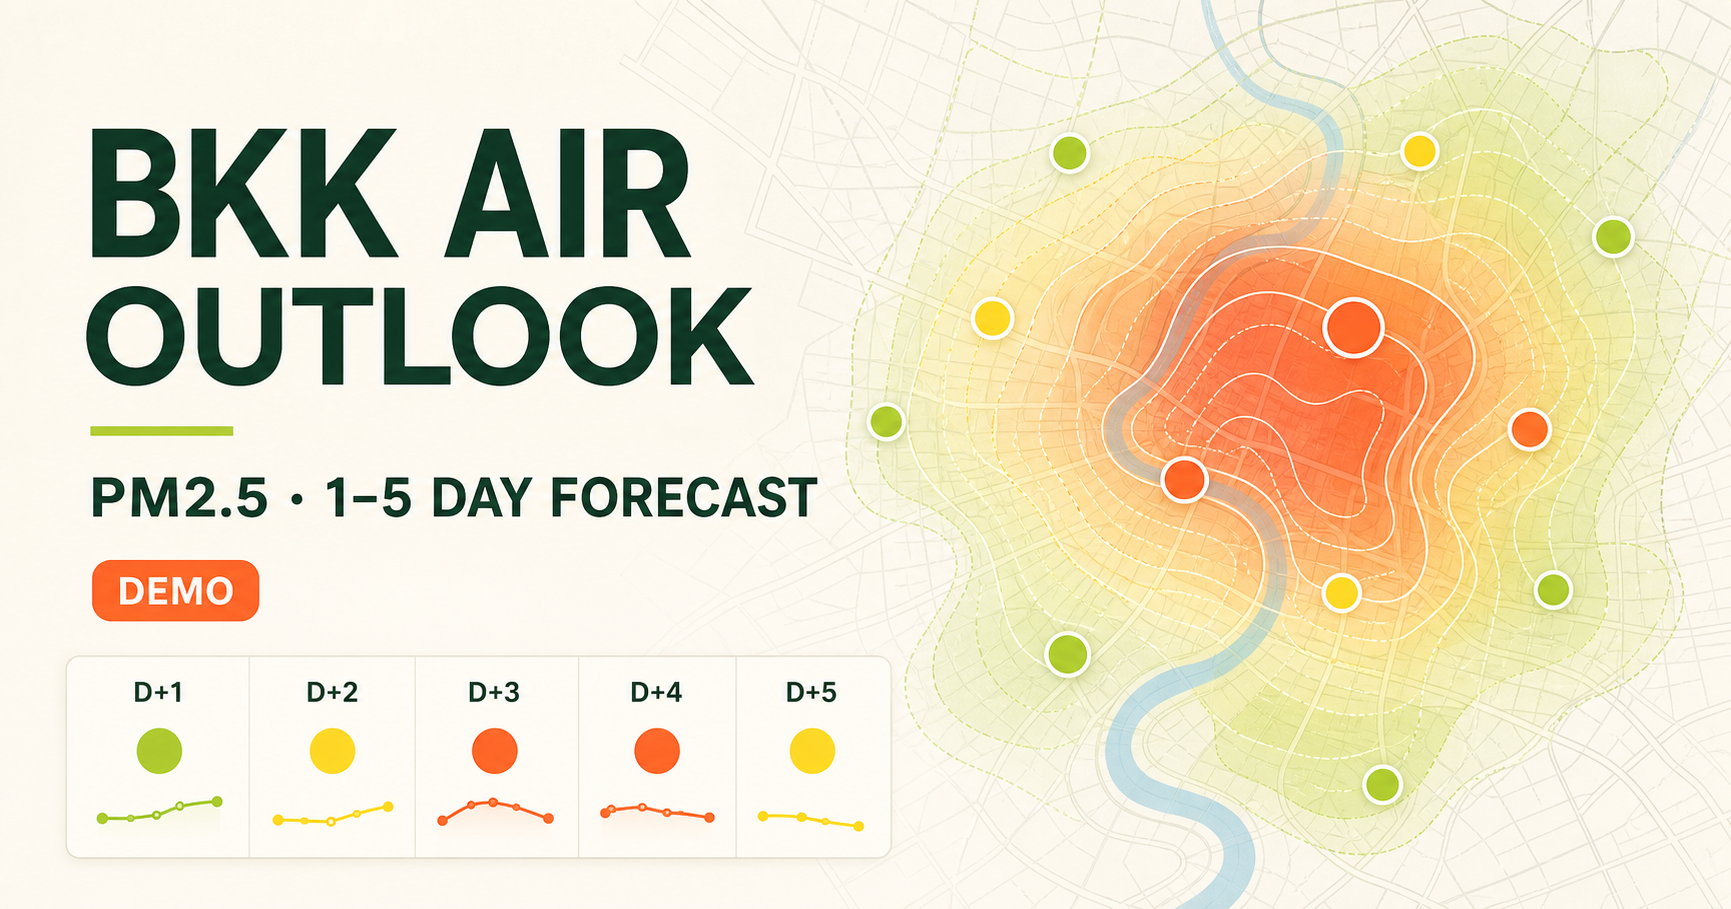
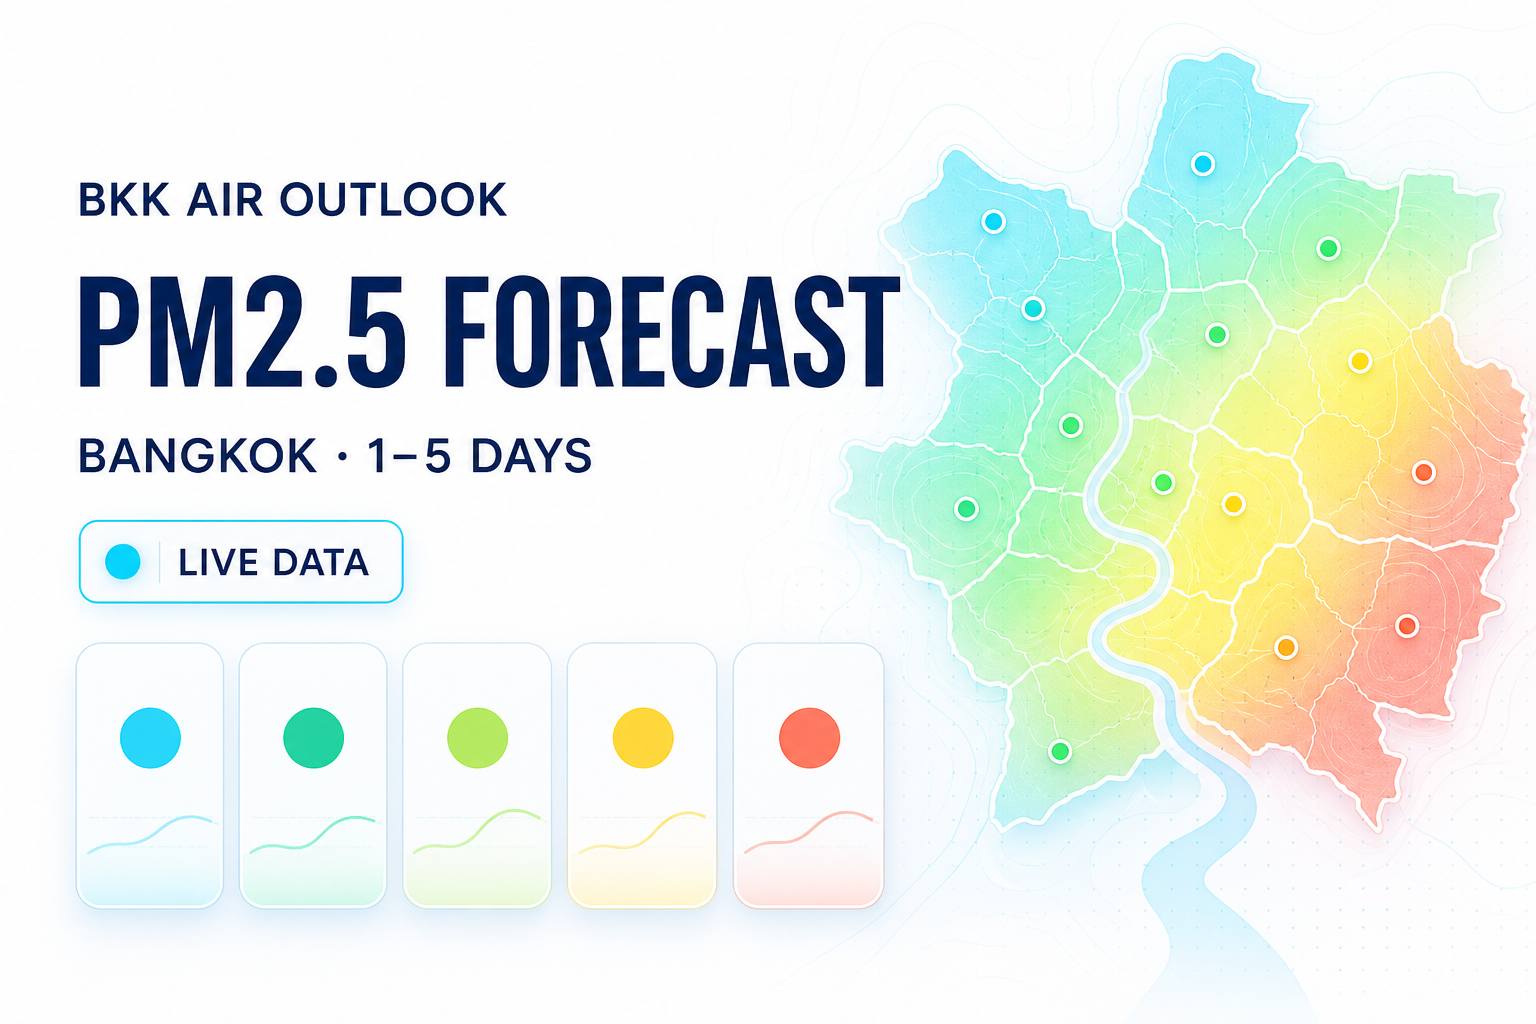
Refresh dashboard with bright modern theme

diff --git a/app/globals.css b/app/globals.css
@@ -2,15 +2,16 @@
 @import "tailwindcss";
 
 :root {
-  --ink: #102a20;
-  --muted: #60736a;
-  --paper: #f2efe6;
-  --card: #fffdf7;
-  --line: #d8ddd4;
-  --lime: #d9f36a;
-  --orange: #ff7352;
-  --forest: #153c2c;
-  --shadow: 0 24px 70px rgba(21, 60, 44, .10);
+  --ink: #102a43;
+  --muted: #627d98;
+  --paper: #f8fbfd;
+  --card: #ffffff;
+  --line: #dce8ee;
+  --lime: #cff45b;
+  --orange: #ff765e;
+  --forest: #106b57;
+  --cyan: #20c7ea;
+  --shadow: 0 20px 60px rgba(16, 42, 67, .08);
 }
 
 * { box-sizing: border-box; }
@@ -18,8 +19,9 @@ html { scroll-behavior: smooth; }
 body {
   margin: 0;
   background:
-    radial-gradient(circle at 85% 8%, rgba(217, 243, 106, .16), transparent 24rem),
-    var(--paper);
+    radial-gradient(circle at 92% 7%, rgba(32, 199, 234, .10), transparent 28rem),
+    radial-gradient(circle at 4% 28%, rgba(207, 244, 91, .10), transparent 24rem),
+    linear-gradient(180deg, #fff 0, var(--paper) 55%, #fff 100%);
   color: var(--ink);
   font-family: "IBM Plex Sans Thai", "Noto Sans Thai", Tahoma, sans-serif;
   font-size: 16px;
@@ -37,7 +39,7 @@ button { color: inherit; }
   align-items: center;
   gap: 24px;
   padding: 0 4.5vw;
-  background: rgba(255, 253, 247, .88);
+  background: rgba(255, 255, 255, .92);
   backdrop-filter: blur(18px);
   border-bottom: 1px solid var(--line);
   position: relative;
@@ -47,25 +49,25 @@ button { color: inherit; }
 .brand > span:last-child { display: flex; flex-direction: column; line-height: .92; letter-spacing: .05em; font-family: Manrope, sans-serif; }
 .brand b { font-size: 17px; letter-spacing: -.02em; }
 .brand small { font-size: 9px; letter-spacing: .32em; color: var(--muted); margin-top: 5px; }
-.brand-mark { width: 38px; height: 38px; border-radius: 12px; background: var(--forest); display: flex; align-items: center; justify-content: center; gap: 3px; box-shadow: inset 0 0 0 1px rgba(255,255,255,.08); transform: rotate(-3deg); }
+.brand-mark { width: 38px; height: 38px; border-radius: 12px; background: linear-gradient(145deg, #0e7490, var(--forest)); display: flex; align-items: center; justify-content: center; gap: 3px; box-shadow: 0 8px 20px rgba(14,116,144,.18); transform: rotate(-3deg); }
 .brand-mark i { display: block; width: 3px; border-radius: 5px; background: var(--lime); }
 .brand-mark i:nth-child(1) { height: 10px; }
 .brand-mark i:nth-child(2) { height: 18px; }
 .brand-mark i:nth-child(3) { height: 13px; }
-.issued { display: flex; align-items: center; gap: 9px; font-size: 12px; color: var(--muted); padding: 9px 14px; border: 1px solid var(--line); border-radius: 999px; background: rgba(255,255,255,.72); }
+.issued { display: flex; align-items: center; gap: 9px; font-size: 12px; color: var(--muted); padding: 9px 14px; border: 1px solid var(--line); border-radius: 999px; background: #fff; box-shadow: 0 5px 18px rgba(16,42,67,.04); }
 .issued b { color: var(--ink); }
 .status-dot { width: 8px; height: 8px; border-radius: 50%; background: #f59e0b; box-shadow: 0 0 0 4px #fef3c7; }
 .status-dot.live { background: #22c55e; box-shadow: 0 0 0 4px #dcfce7; }
 .status-dot.degraded { background: #eab308; box-shadow: 0 0 0 4px #fef9c3; }
 .status-dot.fallback { background: #f97316; box-shadow: 0 0 0 4px #ffedd5; }
-.method-link { justify-self: end; border: 1px solid var(--forest); border-radius: 999px; background: transparent; padding: 10px 15px; font-size: 11px; font-weight: 600; cursor: pointer; transition: background .2s, color .2s, transform .2s; }
+.method-link { justify-self: end; border: 1px solid #c7dce6; border-radius: 999px; background: #fff; padding: 10px 15px; font-size: 11px; font-weight: 600; cursor: pointer; box-shadow: 0 5px 18px rgba(16,42,67,.04); transition: background .2s, color .2s, transform .2s; }
 .method-link:hover { background: var(--forest); color: #fff; transform: translateY(-1px); }
 
 .notice { min-height: 38px; padding: 8px 4.5vw; background: #fff0dc; color: #7c3d12; display: flex; justify-content: center; gap: 12px; align-items: center; font-size: 11px; border-bottom: 1px solid #f3d2aa; }
 .notice b { letter-spacing: .08em; }
 .notice span { color: #8a5a38; }
-.notice.live { background: #e7f8ee; color: #175a35; border-bottom-color: #b9e5ca; }
-.notice.live span { color: #3b7253; }
+.notice.live { background: #effcf8; color: #0f6853; border-bottom-color: #c5efe3; }
+.notice.live span { color: #42796c; }
 .notice.degraded { background: #fff6d8; color: #735912; border-bottom-color: #ead792; }
 .notice.degraded span { color: #806c34; }
 .notice.fallback { background: #ffebe5; color: #852f1c; border-bottom-color: #efc1b5; }
@@ -73,25 +75,25 @@ button { color: inherit; }
 
 .hero { padding: 54px 4.5vw 42px; display: grid; grid-template-columns: minmax(0, 1fr) minmax(340px, 460px); align-items: stretch; gap: clamp(34px, 6vw, 88px); }
 .hero-copy { align-self: center; max-width: 790px; }
-.hero-kicker { display: inline-flex; align-items: center; gap: 8px; margin-bottom: 18px; padding: 6px 9px; border-radius: 999px; background: var(--lime); color: var(--forest); font-family: Manrope, sans-serif; font-size: 9px; font-weight: 800; letter-spacing: .14em; }
-.hero-kicker::before { content: ""; width: 6px; height: 6px; border-radius: 50%; background: var(--forest); box-shadow: 0 0 0 3px rgba(21,60,44,.12); }
+.hero-kicker { display: inline-flex; align-items: center; gap: 8px; margin-bottom: 18px; padding: 6px 9px; border: 1px solid #c6edf5; border-radius: 999px; background: #effbfe; color: #0e7490; font-family: Manrope, sans-serif; font-size: 9px; font-weight: 800; letter-spacing: .14em; }
+.hero-kicker::before { content: ""; width: 6px; height: 6px; border-radius: 50%; background: var(--cyan); box-shadow: 0 0 0 3px rgba(32,199,234,.14); }
 .eyebrow { margin: 0 0 12px; color: #557065; font-size: 12px; letter-spacing: .06em; font-weight: 600; }
 .hero h1 { margin: 0; max-width: 820px; font-size: clamp(45px, 5.4vw, 78px); line-height: .98; letter-spacing: -.055em; font-weight: 700; }
 .hero h1 em { color: var(--orange); font-style: normal; }
 .hero-deck { max-width: 620px; margin: 22px 0 0; color: var(--muted); font-size: 14px; line-height: 1.7; }
-.hero-visual { min-height: 260px; position: relative; overflow: hidden; border: 1px solid rgba(21,60,44,.20); border-radius: 26px 6px 26px 26px; background-image: linear-gradient(180deg, rgba(21,60,44,.03), rgba(21,60,44,.34)), url("/og-design-v2.png"); background-size: cover; background-position: 72% center; box-shadow: var(--shadow); }
-.hero-visual::before { content: ""; position: absolute; width: 92px; height: 92px; right: -28px; top: -28px; border-radius: 50%; border: 22px solid var(--lime); opacity: .78; }
-.hero-summary { position: absolute; left: 16px; right: 16px; bottom: 16px; padding: 16px 18px; border: 1px solid rgba(255,255,255,.22); border-radius: 16px; color: #fff; background: rgba(10,42,30,.84); backdrop-filter: blur(12px); }
-.hero-summary p { margin: 0 0 5px; font-size: 10px; color: #c8d8cf; }
+.hero-visual { min-height: 260px; position: relative; overflow: hidden; border: 1px solid #d7eaf1; border-radius: 26px 8px 26px 26px; background-image: url("/og.png"); background-size: cover; background-position: 72% center; box-shadow: var(--shadow); }
+.hero-visual::before { content: ""; position: absolute; width: 92px; height: 92px; right: -28px; top: -28px; border-radius: 50%; border: 22px solid rgba(32,199,234,.48); }
+.hero-summary { position: absolute; left: 16px; right: 16px; bottom: 16px; padding: 16px 18px; border: 1px solid rgba(190,220,230,.78); border-radius: 16px; color: var(--ink); background: rgba(255,255,255,.90); backdrop-filter: blur(14px); box-shadow: 0 12px 30px rgba(16,42,67,.10); }
+.hero-summary p { margin: 0 0 5px; font-size: 10px; color: var(--muted); }
 .hero-summary strong { display: block; font-family: Manrope, "IBM Plex Sans Thai", sans-serif; font-size: 23px; margin-bottom: 3px; }
 .hero-summary strong small { font-family: "IBM Plex Sans Thai", sans-serif; font-size: 10px; font-weight: 500; }
-.hero-summary span { font-size: 10px; line-height: 1.5; color: var(--lime); }
+.hero-summary span { font-size: 10px; line-height: 1.5; color: var(--forest); }
 
 .day-tabs { margin: 0 4.5vw; display: grid; grid-template-columns: repeat(5, 1fr); background: #fff; border: 1px solid var(--line); border-radius: 20px 20px 0 0; overflow: hidden; box-shadow: 0 12px 36px rgba(21,60,44,.06); }
 .day-tabs button { border: 0; border-right: 1px solid var(--line); background: #fff; padding: 16px 18px 17px; text-align: left; cursor: pointer; position: relative; transition: background .2s, color .2s, transform .2s; }
 .day-tabs button:last-child { border-right: 0; }
 .day-tabs button:hover { background: #f8f9f3; }
-.day-tabs button.active { background: var(--forest); color: #fff; }
+.day-tabs button.active { background: linear-gradient(145deg, #0e7490, var(--forest)); color: #fff; }
 .day-tabs button.active::after { content: ""; position: absolute; inset: auto 16px 0; height: 3px; background: var(--lime); }
 .day-tabs span { display: block; font-size: 10px; opacity: .65; letter-spacing: .12em; }
 .day-tabs b { display: block; margin: 5px 0 9px; font-size: 14px; font-weight: 600; }
@@ -119,11 +121,11 @@ button { color: inherit; }
 .range-toggle input:checked + span { background: var(--forest); }
 .range-toggle input:checked + span::after { transform: translateX(15px); }
 .range-toggle input:focus-visible + span { outline: 3px solid #a7f3d0; outline-offset: 2px; }
-.map-wrap { height: 610px; position: relative; background: #dde3db; overflow: hidden; }
+.map-wrap { height: 610px; position: relative; background: #edf5f7; overflow: hidden; }
 .map { height: 100%; width: 100%; z-index: 1; }
 .map::after { content: ""; position: absolute; inset: 0; pointer-events: none; z-index: 500; box-shadow: inset 0 0 90px #19332918; }
-.leaflet-container { font-family: "IBM Plex Sans Thai", "Noto Sans Thai", Tahoma, sans-serif; background: #dde3db; }
-.leaflet-tile { filter: saturate(.55) contrast(.92) brightness(1.06); }
+.leaflet-container { font-family: "IBM Plex Sans Thai", "Noto Sans Thai", Tahoma, sans-serif; background: #edf5f7; }
+.leaflet-tile { filter: saturate(.48) contrast(.90) brightness(1.11); }
 .leaflet-control-attribution { font-size: 9px !important; }
 .forecast-tooltip { border: 0 !important; border-radius: 7px !important; box-shadow: 0 5px 20px #173c2b24 !important; font-size: 11px; font-weight: 700; }
 .map-popup { min-width: 120px; display: flex; flex-direction: column; gap: 4px; }
@@ -137,10 +139,10 @@ button { color: inherit; }
 .map-metric strong small { font-size: 10px; font-weight: 400; letter-spacing: 0; margin-left: 5px; }
 .map-metric > b { font-size: 11px; }
 .map-metric em { font-size: 9px; font-style: normal; margin-top: 8px; color: var(--muted); border-top: 1px solid var(--line); padding-top: 7px; }
-.surface-status { position: absolute; z-index: 600; top: 18px; right: 18px; min-width: 174px; padding: 12px 14px; border: 1px solid rgba(255,255,255,.12); border-radius: 14px; background: #173c2be8; color: #fff; box-shadow: 0 8px 26px #173c2b24; display: flex; flex-direction: column; backdrop-filter: blur(10px); }
-.surface-status b { font-size: 10px; letter-spacing: .07em; color: var(--lime); }
-.surface-status span { margin-top: 3px; font-size: 9px; color: #dce7e0; }
-.surface-status em { margin-top: 7px; padding-top: 6px; border-top: 1px solid #ffffff24; font-size: 8px; font-style: normal; color: #b7c9bf; }
+.surface-status { position: absolute; z-index: 600; top: 18px; right: 18px; min-width: 174px; padding: 12px 14px; border: 1px solid #d2e6ed; border-radius: 14px; background: rgba(255,255,255,.92); color: var(--ink); box-shadow: 0 8px 26px rgba(16,42,67,.12); display: flex; flex-direction: column; backdrop-filter: blur(12px); }
+.surface-status b { font-size: 10px; letter-spacing: .07em; color: #0e7490; }
+.surface-status span { margin-top: 3px; font-size: 9px; color: var(--muted); }
+.surface-status em { margin-top: 7px; padding-top: 6px; border-top: 1px solid var(--line); font-size: 8px; font-style: normal; color: #829ab1; }
 .surface-status.fallback b { color: #ffd17b; }
 .surface-status.loading { opacity: .78; }
 .legend { position: absolute; z-index: 600; left: 18px; bottom: 20px; display: flex; align-items: center; gap: 12px; padding: 10px 13px; background: #fffefae8; backdrop-filter: blur(10px); border: 1px solid rgba(21,60,44,.08); border-radius: 12px; box-shadow: 0 6px 22px #173c2b16; }
@@ -148,12 +150,12 @@ button { color: inherit; }
 .legend i { width: 8px; height: 8px; border-radius: 50%; }
 .legend small { padding-left: 5px; border-left: 1px solid var(--line); color: var(--muted); font-size: 9px; }
 
-.insights { border-left: 1px solid var(--line); background: #fbfaf5; }
+.insights { border-left: 1px solid var(--line); background: #ffffff; }
 .insights > div { padding: 23px; border-bottom: 1px solid var(--line); }
 .insights > div:last-child { border-bottom: 0; }
-.average-card { display: flex; align-items: center; gap: 17px; background: linear-gradient(135deg, rgba(217,243,106,.18), transparent 65%); }
+.average-card { display: flex; align-items: center; gap: 17px; background: linear-gradient(135deg, rgba(32,199,234,.09), rgba(207,244,91,.10) 72%, transparent); }
 .average-ring { --progress: 180deg; --metric-color: var(--lime); width: 92px; height: 92px; flex: 0 0 auto; border-radius: 50%; display: grid; place-items: center; background: conic-gradient(var(--metric-color) var(--progress), #e1e6e0 0); position: relative; box-shadow: inset 0 0 0 1px rgba(21,60,44,.03); }
-.average-ring::after { content: ""; position: absolute; inset: 8px; background: #fbfaf5; border-radius: 50%; }
+.average-ring::after { content: ""; position: absolute; inset: 8px; background: #fff; border-radius: 50%; }
 .average-ring span { position: relative; z-index: 1; display: flex; flex-direction: column; align-items: center; font-family: Manrope, "IBM Plex Sans Thai", sans-serif; font-size: 27px; line-height: 1; font-weight: 800; letter-spacing: -.05em; }
 .average-ring small { margin-top: 5px; font-family: "IBM Plex Sans Thai", sans-serif; font-size: 8px; font-weight: 500; letter-spacing: 0; color: var(--muted); }
 .average-card p, .weather-card > p, .watch-card > p { margin: 0 0 5px; font-size: 10px; color: var(--muted); letter-spacing: .06em; }
@@ -169,14 +171,14 @@ button { color: inherit; }
 .watch-card li b { font-family: Manrope, "IBM Plex Sans Thai", sans-serif; font-size: 13px; }
 .watch-card li i { width: 7px; height: 7px; border-radius: 50%; }
 .watch-card > small { font-size: 8px; color: #8a9992; }
-.forecast-note { display: flex; gap: 12px; background: #fff8e7; }
+.forecast-note { display: flex; gap: 12px; background: #f5fbfd; }
 .forecast-note > span { width: 24px; height: 24px; flex: 0 0 auto; border-radius: 50%; display: grid; place-items: center; background: #f8cf5c; font-weight: 800; font-size: 12px; }
-.forecast-note p { margin: 0; color: #775825; font-size: 10px; line-height: 1.55; }
-.forecast-note b { display: block; color: #553d16; font-size: 11px; margin-bottom: 3px; }
+.forecast-note p { margin: 0; color: #486581; font-size: 10px; line-height: 1.55; }
+.forecast-note b { display: block; color: var(--ink); font-size: 11px; margin-bottom: 3px; }
 
 .method { margin: 100px 4.5vw 58px; display: grid; grid-template-columns: .7fr 1.3fr; gap: 70px; }
 .method h2 { margin: 0; font-size: clamp(30px, 3.5vw, 52px); line-height: 1.08; letter-spacing: -.04em; }
-.method-flow { display: grid; grid-template-columns: repeat(2, 1fr); border: 1px solid var(--line); border-radius: 20px; overflow: hidden; background: rgba(255,255,255,.52); box-shadow: 0 18px 50px rgba(21,60,44,.05); }
+.method-flow { display: grid; grid-template-columns: repeat(2, 1fr); border: 1px solid var(--line); border-radius: 20px; overflow: hidden; background: #fff; box-shadow: 0 18px 50px rgba(16,42,67,.05); }
 .method-flow article { min-height: 175px; padding: 24px; border-right: 1px solid var(--line); border-bottom: 1px solid var(--line); }
 .method-flow article:nth-child(2n) { border-right: 0; }
 .method-flow article:nth-last-child(-n+2) { border-bottom: 0; }
@@ -187,9 +189,9 @@ button { color: inherit; }
 .source-row span { margin-right: auto; color: var(--muted); font-size: 10px; }
 .source-row b { padding: 8px 12px; border: 1px solid var(--line); border-radius: 30px; background: rgba(255,255,255,.72); font-size: 9px; font-weight: 500; }
 
-footer { min-height: 72px; padding: 0 4.5vw; display: flex; align-items: center; justify-content: space-between; gap: 20px; background: var(--forest); color: #fff; font-size: 10px; }
+footer { min-height: 72px; padding: 0 4.5vw; display: flex; align-items: center; justify-content: space-between; gap: 20px; border-top: 1px solid var(--line); background: #fff; color: var(--ink); font-size: 10px; }
 footer span { font-weight: 700; letter-spacing: .08em; }
-footer p { margin: 0; color: #b8c8bf; text-align: right; }
+footer p { margin: 0; color: var(--muted); text-align: right; }
 
 @media (max-width: 980px) {
   .hero { grid-template-columns: minmax(0, 1fr) 340px; gap: 30px; }

diff --git a/app/layout.tsx b/app/layout.tsx
@@ -21,13 +21,13 @@ export async function generateMetadata(): Promise<Metadata> {
       title,
       description,
       type: "website",
-      images: [{ url: `${origin}/og-design-v2.png`, width: 1536, height: 1024, alt: "BKK Air Outlook live PM2.5 forecast map" }],
+      images: [{ url: `${origin}/og.png`, width: 1536, height: 1024, alt: "BKK Air Outlook live PM2.5 forecast map" }],
     },
     twitter: {
       card: "summary_large_image",
       title,
       description,
-      images: [`${origin}/og-design-v2.png`],
+      images: [`${origin}/og.png`],
     },
   };
 }
